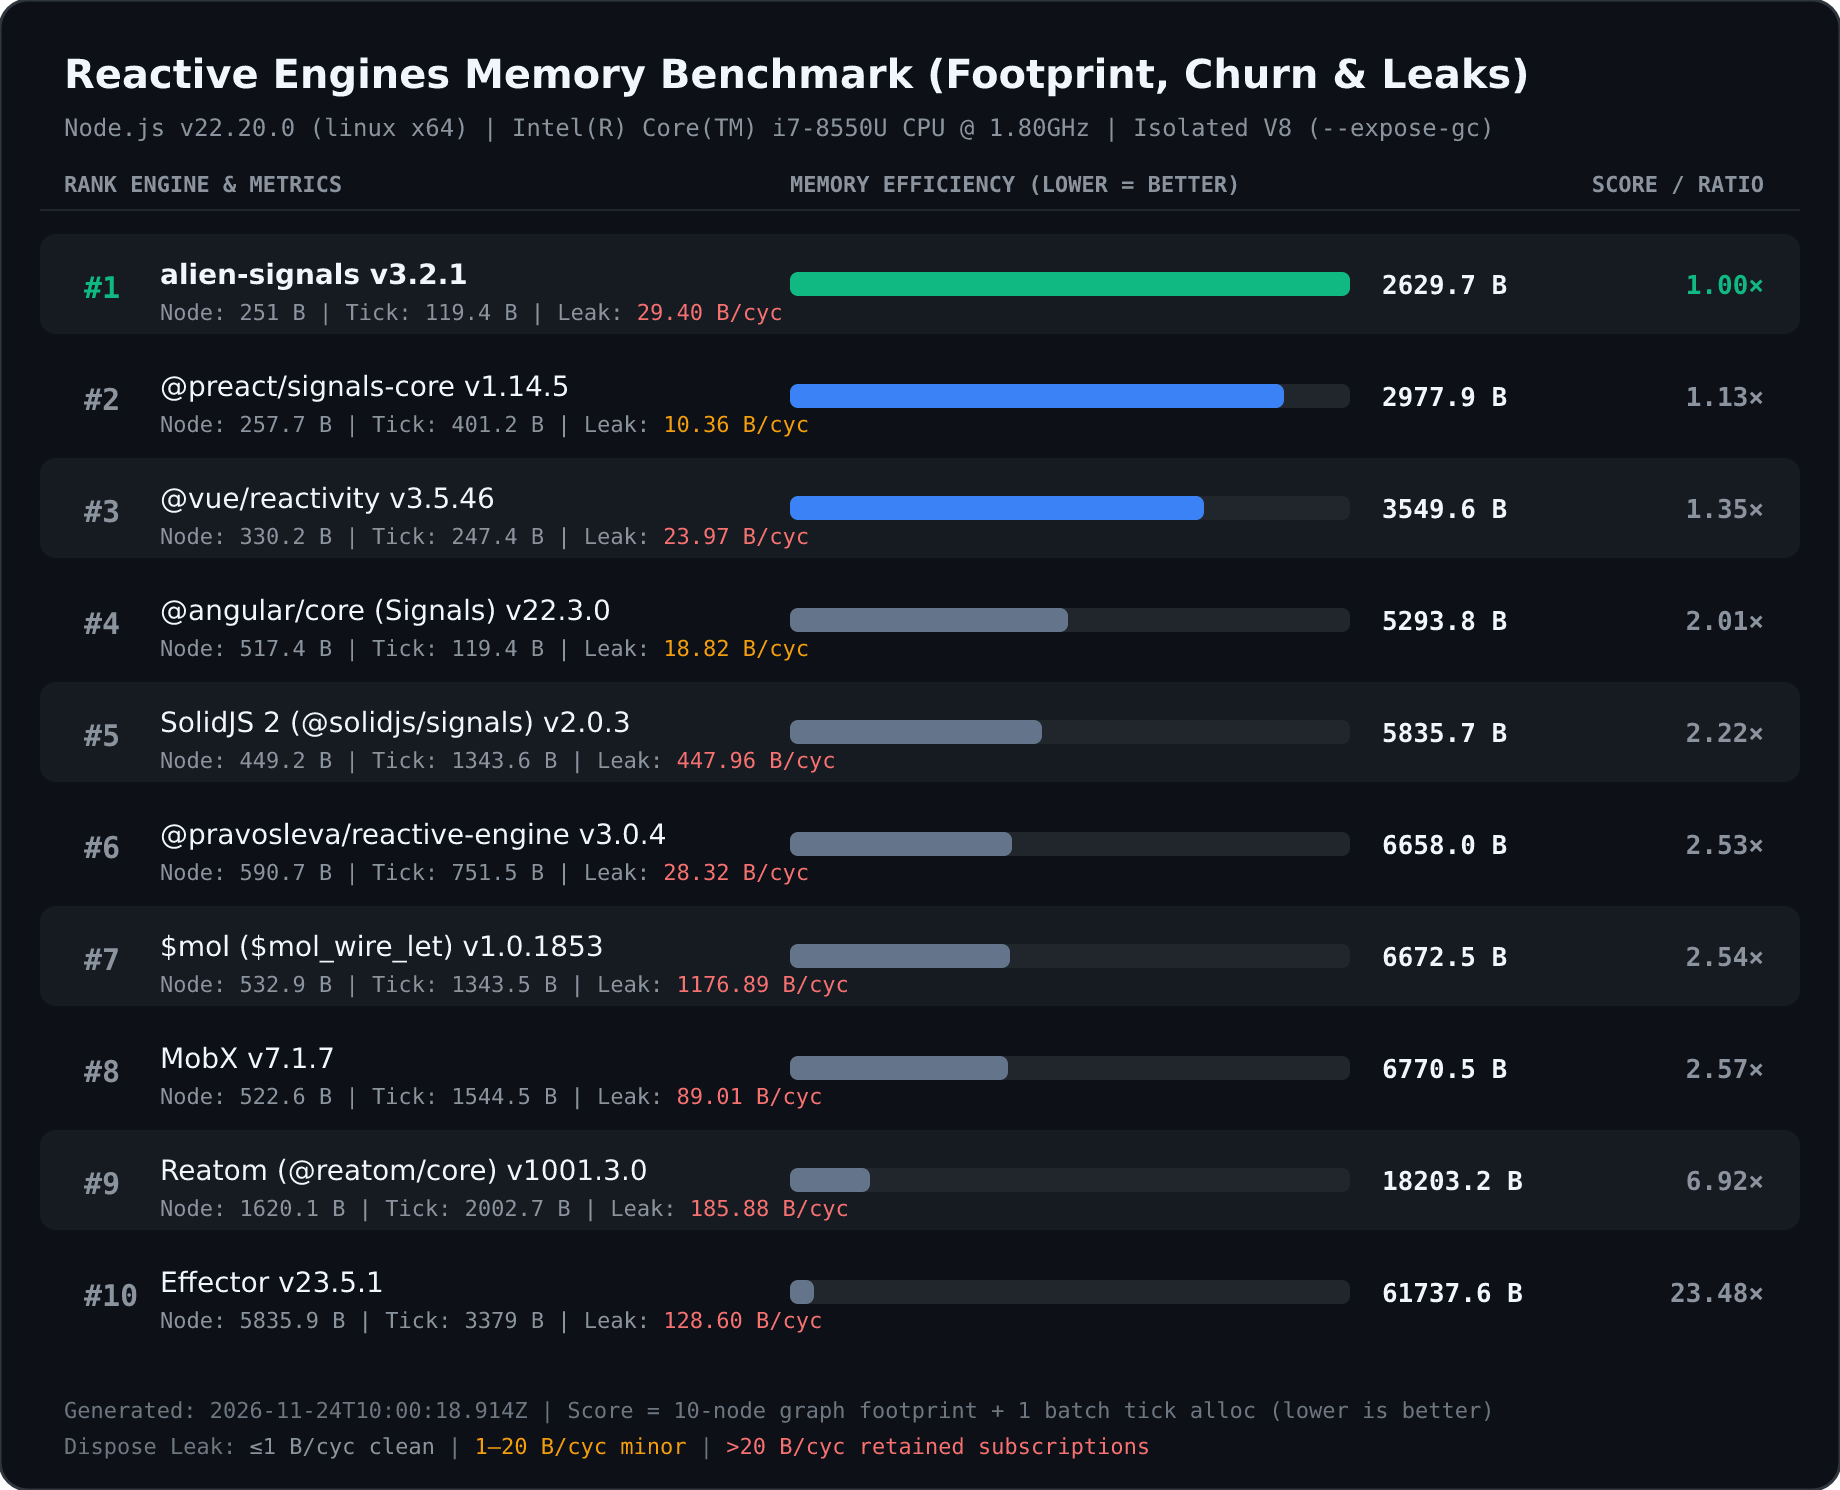
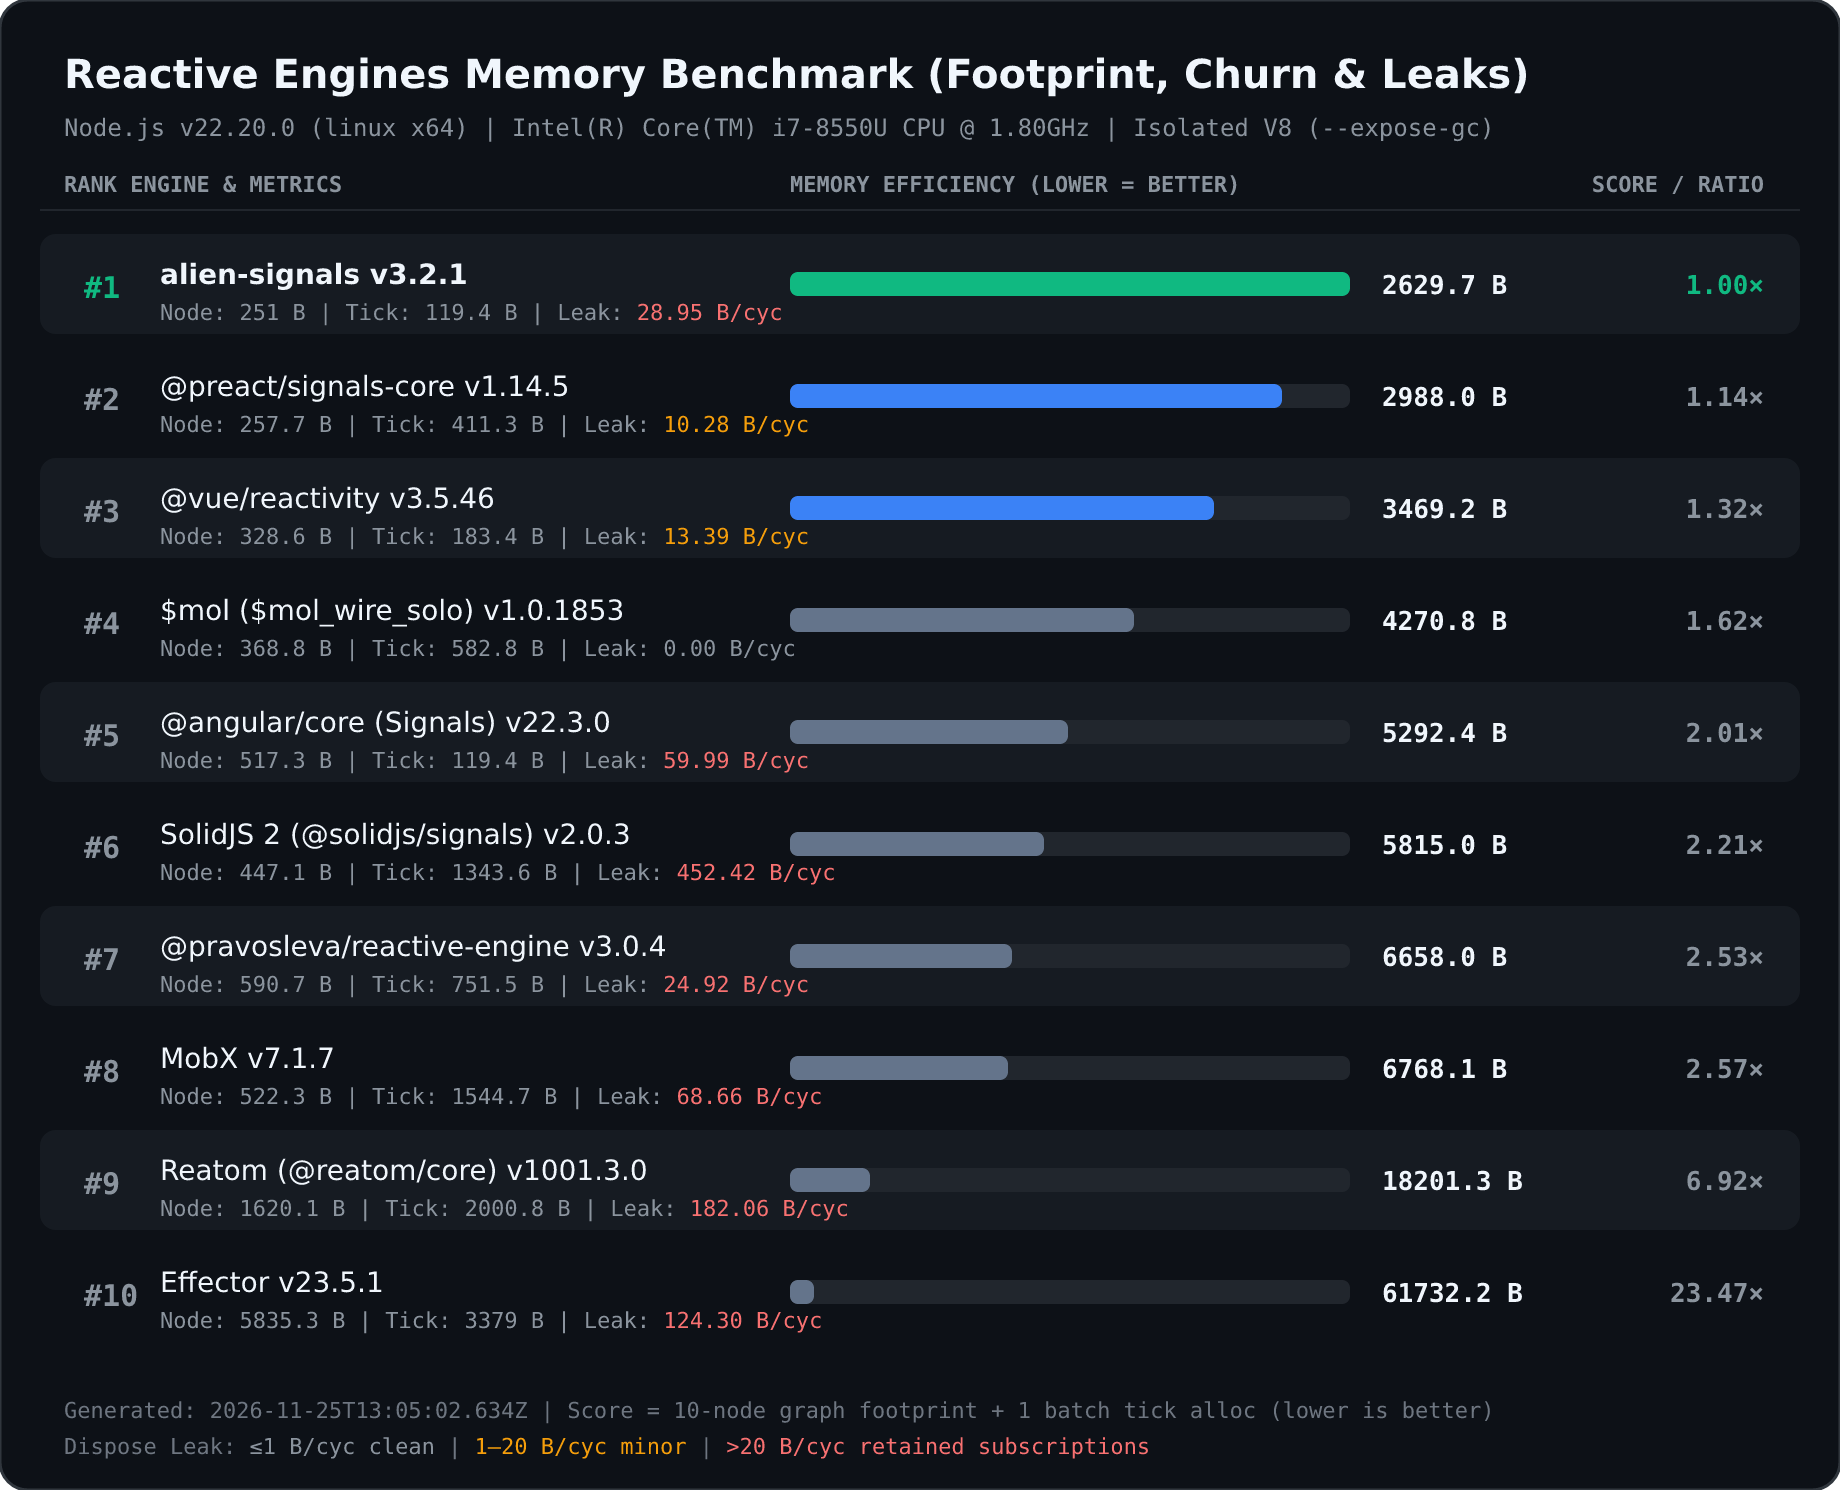
$mol case updated: https://habr.com/ru/articles/1111820/#comment_30674818

diff --git a/README.md b/README.md
@@ -6,22 +6,22 @@
 
 ## 1. Результаты последнего прогона
 
-* **Дата замера:** `2026-11-24T10:00:18.914Z`
+* **Дата замера:** `2026-11-25T13:05:02.634Z`
 * **Среда выполнения:** Node.js `v22.20.0` (`linux x64`), `Intel(R) Core(TM) i7-8550U CPU @ 1.80GHz`
 * **Масштаб тестов:** `10 000` узлов (Footprint) | `5 000` тиков (Churn) | `2 000` циклов mount/dispose (Leaks)
 
 | Rank | Engine | Node (B) | Tick Alloc (B) | Leak (B/cycle) | Memory Score (B) | Ratio |
 | :---: | :--- | :---: | :---: | :---: | :---: | :---: |
-| **1** | **alien-signals `v3.2.1`** | `251` | `119.4` | `29.40` | `2629.7` | `1.00×` |
-| **2** | @preact/signals-core `v1.14.5` | `257.7` | `401.2` | `10.36` | `2977.9` | `1.13×` |
-| **3** | @vue/reactivity `v3.5.46` | `330.2` | `247.4` | `23.97` | `3549.6` | `1.35×` |
-| **4** | @angular/core (Signals) `v22.3.0` | `517.4` | `119.4` | `18.82` | `5293.8` | `2.01×` |
-| **5** | SolidJS 2 (@solidjs/signals) `v2.0.3` | `449.2` | `1343.6` | `447.96` | `5835.7` | `2.22×` |
-| **6** | @pravosleva/reactive-engine `v3.0.4` | `590.7` | `751.5` | `28.32` | `6658` | `2.53×` |
-| **7** | $mol ($mol_wire_let) `v1.0.1853` | `532.9` | `1343.5` | `1176.89` | `6672.5` | `2.54×` |
-| **8** | MobX `v7.1.7` | `522.6` | `1544.5` | `89.01` | `6770.5` | `2.57×` |
-| **9** | Reatom (@reatom/core) `v1001.3.0` | `1620.1` | `2002.7` | `185.88` | `18203.2` | `6.92×` |
-| **10** | Effector `v23.5.1` | `5835.9` | `3379` | `128.60` | `61737.6` | `23.48×` |
+| **1** | **alien-signals `v3.2.1`** | `251` | `119.4` | `28.95` | `2629.7` | `1.00×` |
+| **2** | @preact/signals-core `v1.14.5` | `257.7` | `411.3` | `10.28` | `2988` | `1.14×` |
+| **3** | @vue/reactivity `v3.5.46` | `328.6` | `183.4` | `13.39` | `3469.2` | `1.32×` |
+| **4** | $mol ($mol_wire_solo) `v1.0.1853` | `368.8` | `582.8` | `0.00` | `4270.8` | `1.62×` |
+| **5** | @angular/core (Signals) `v22.3.0` | `517.3` | `119.4` | `59.99` | `5292.4` | `2.01×` |
+| **6** | SolidJS 2 (@solidjs/signals) `v2.0.3` | `447.1` | `1343.6` | `452.42` | `5815` | `2.21×` |
+| **7** | @pravosleva/reactive-engine `v3.0.4` | `590.7` | `751.5` | `24.92` | `6658` | `2.53×` |
+| **8** | MobX `v7.1.7` | `522.3` | `1544.7` | `68.66` | `6768.1` | `2.57×` |
+| **9** | Reatom (@reatom/core) `v1001.3.0` | `1620.1` | `2000.8` | `182.06` | `18201.3` | `6.92×` |
+| **10** | Effector `v23.5.1` | `5835.3` | `3379` | `124.30` | `61732.2` | `23.47×` |
 
 ## 2. Методология и устройство тестов
 
